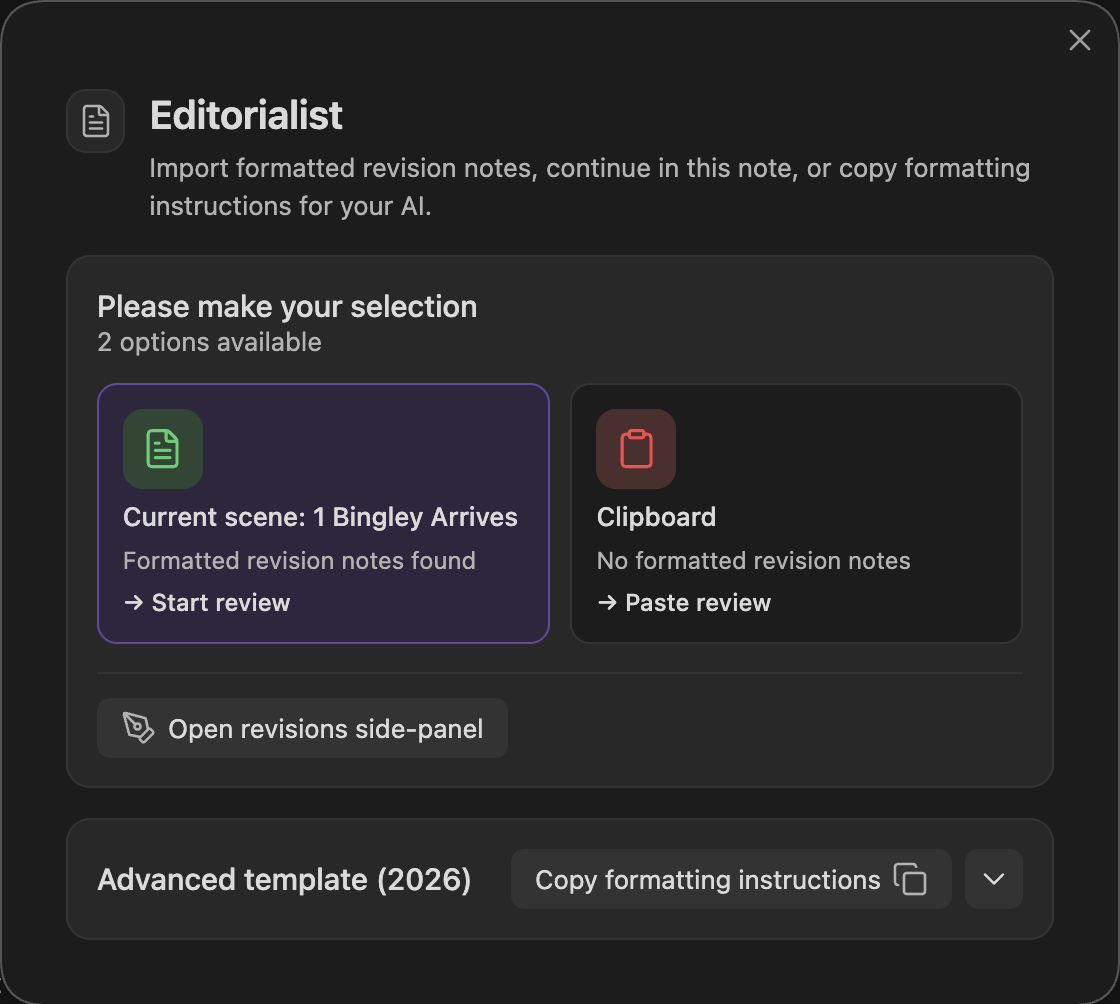
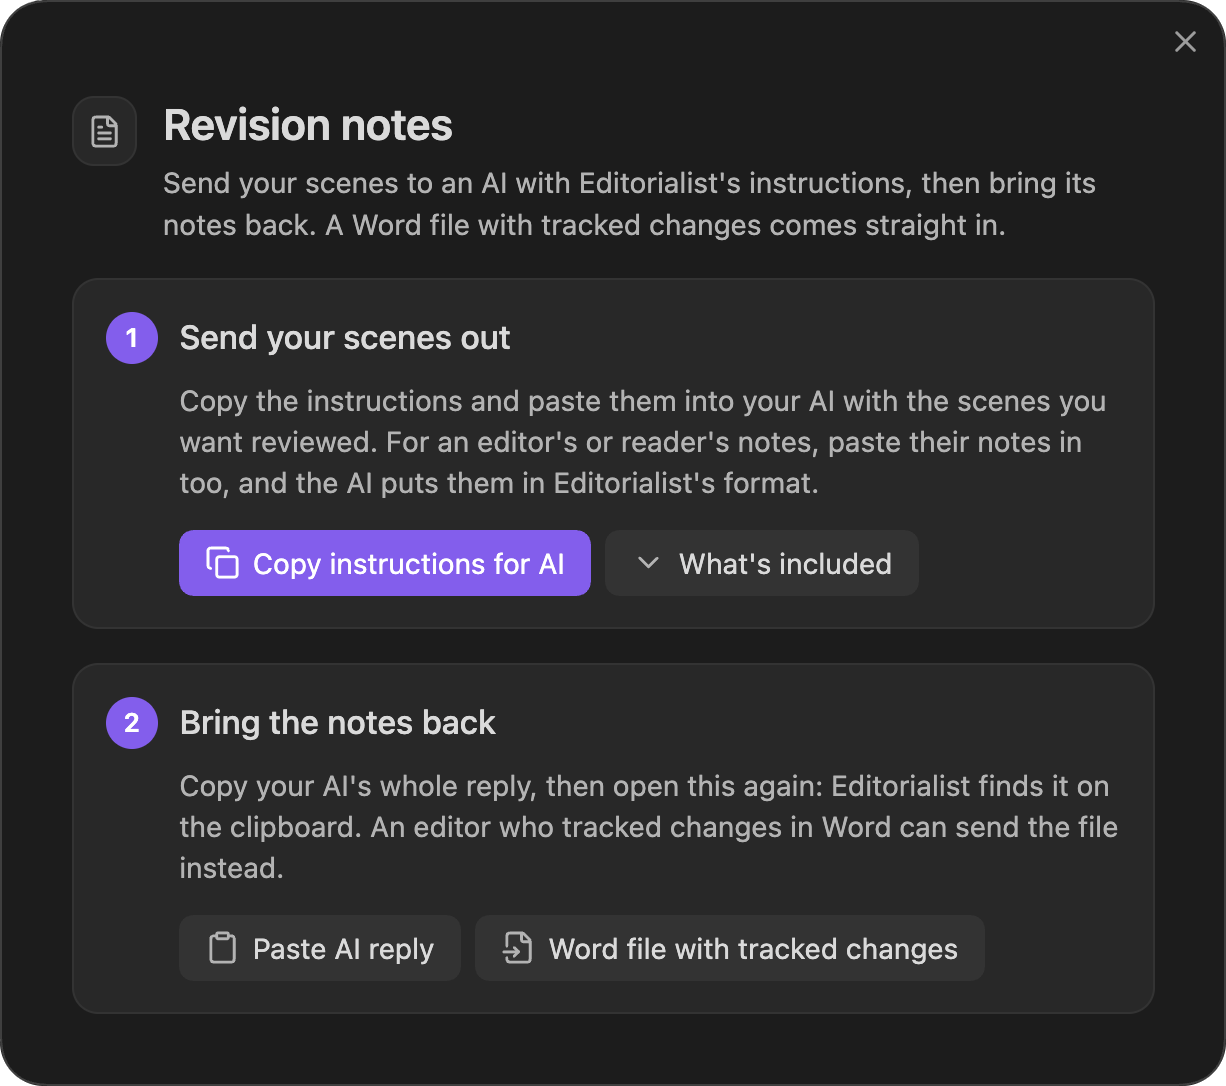
Replace the launcher screenshot in the wiki with the two-step layout
The old capture showed the launcher's card grid and template bar, which no
longer exist. The new one shows the plain two-step state, captured in the
capture vault and rounded to the modal's own 22 px corners.

diff --git a/docs/engineering/WIKI-SCREENSHOTS.md b/docs/engineering/WIKI-SCREENSHOTS.md
@@ -165,3 +165,17 @@ time window to show. No Author-vault content was used.
 
 Also checked in light and dark at 300 and 460 CSS pixels; the countdown wraps
 cleanly at 300 with no horizontal overflow.
+
+## Two-step launcher — November 2, 2026
+
+Captured from source commit `d894160` plus the copy-icon fix that follows it,
+Obsidian dark theme, 2x device scale, in the `Editorialist Capture Vault`
+(Pride & Prejudice sample) with its README open, so no review was waiting and
+the launcher shows its plain two-step state. Captured with
+`screencapture -l` on the window, so the pointer is not in the image. No
+Author-vault content was used.
+
+- `panel-import.png` — the whole launcher modal, cropped on its own border
+  (1226 × 1086 image pixels, 613 CSS pixels wide, shown at 560). The modal's
+  corners are 22 CSS pixels round, so it was rounded with `--radius 44`: the
+  default 24 left the page behind showing through the corners.

diff --git a/wiki/Getting-Started.md b/wiki/Getting-Started.md
@@ -57,7 +57,7 @@ A five-minute walkthrough of the core loop:
 
 Run **Open review launcher** and, under **1 Send your scenes out**, click **Copy instructions for AI**. **What's included** shows the format. This copies the review batch format, the Editorialism file format, and the scenes of your manuscript target — their scene IDs, or note names for notes without IDs — to the clipboard.
 
-<p align="center"><img src="images/panel-import.png" alt="The review launcher with current-scene and clipboard choices and formatting instructions" width="560"></p>
+<p align="center"><img src="images/panel-import.png" alt="The review launcher in two numbered steps: Send your scenes out, with Copy instructions for AI, and Bring the notes back, with Paste AI reply and Word file with tracked changes" width="560"></p>
 
 ### 2. Get suggestions
 

diff --git a/wiki/Importing-Reviews.md b/wiki/Importing-Reviews.md
@@ -216,7 +216,7 @@ Paste the reply into the review launcher: when it contains an editorialism file,
 
 ## Importing a Review Batch
 
-<p align="center"><img src="images/panel-import.png" alt="The review launcher with current-scene and clipboard choices and formatting instructions" width="560"></p>
+<p align="center"><img src="images/panel-import.png" alt="The review launcher in two numbered steps: Send your scenes out, with Copy instructions for AI, and Bring the notes back, with Paste AI reply and Word file with tracked changes" width="560"></p>
 
 Run **Open review launcher** (command palette). The launcher modal:
 
